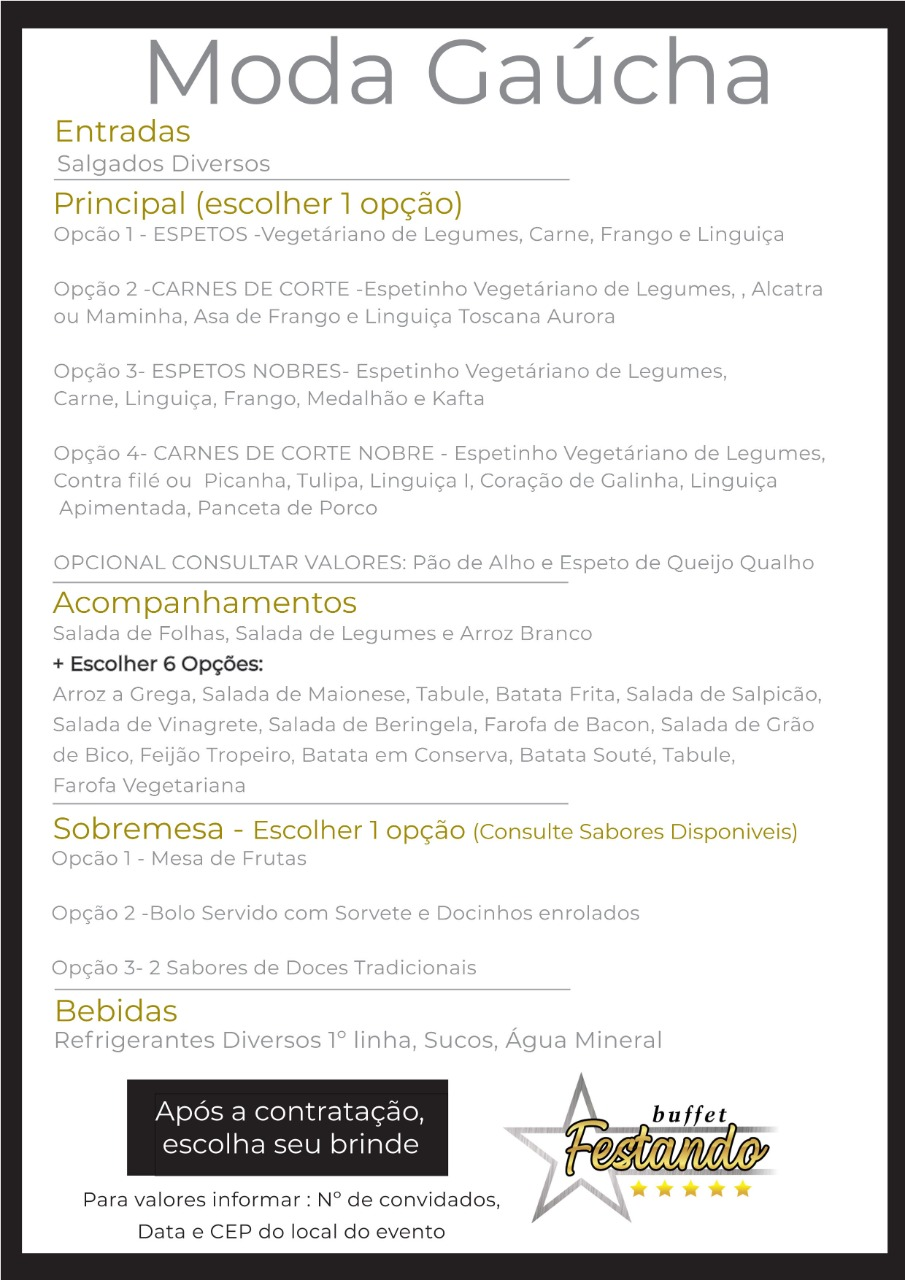
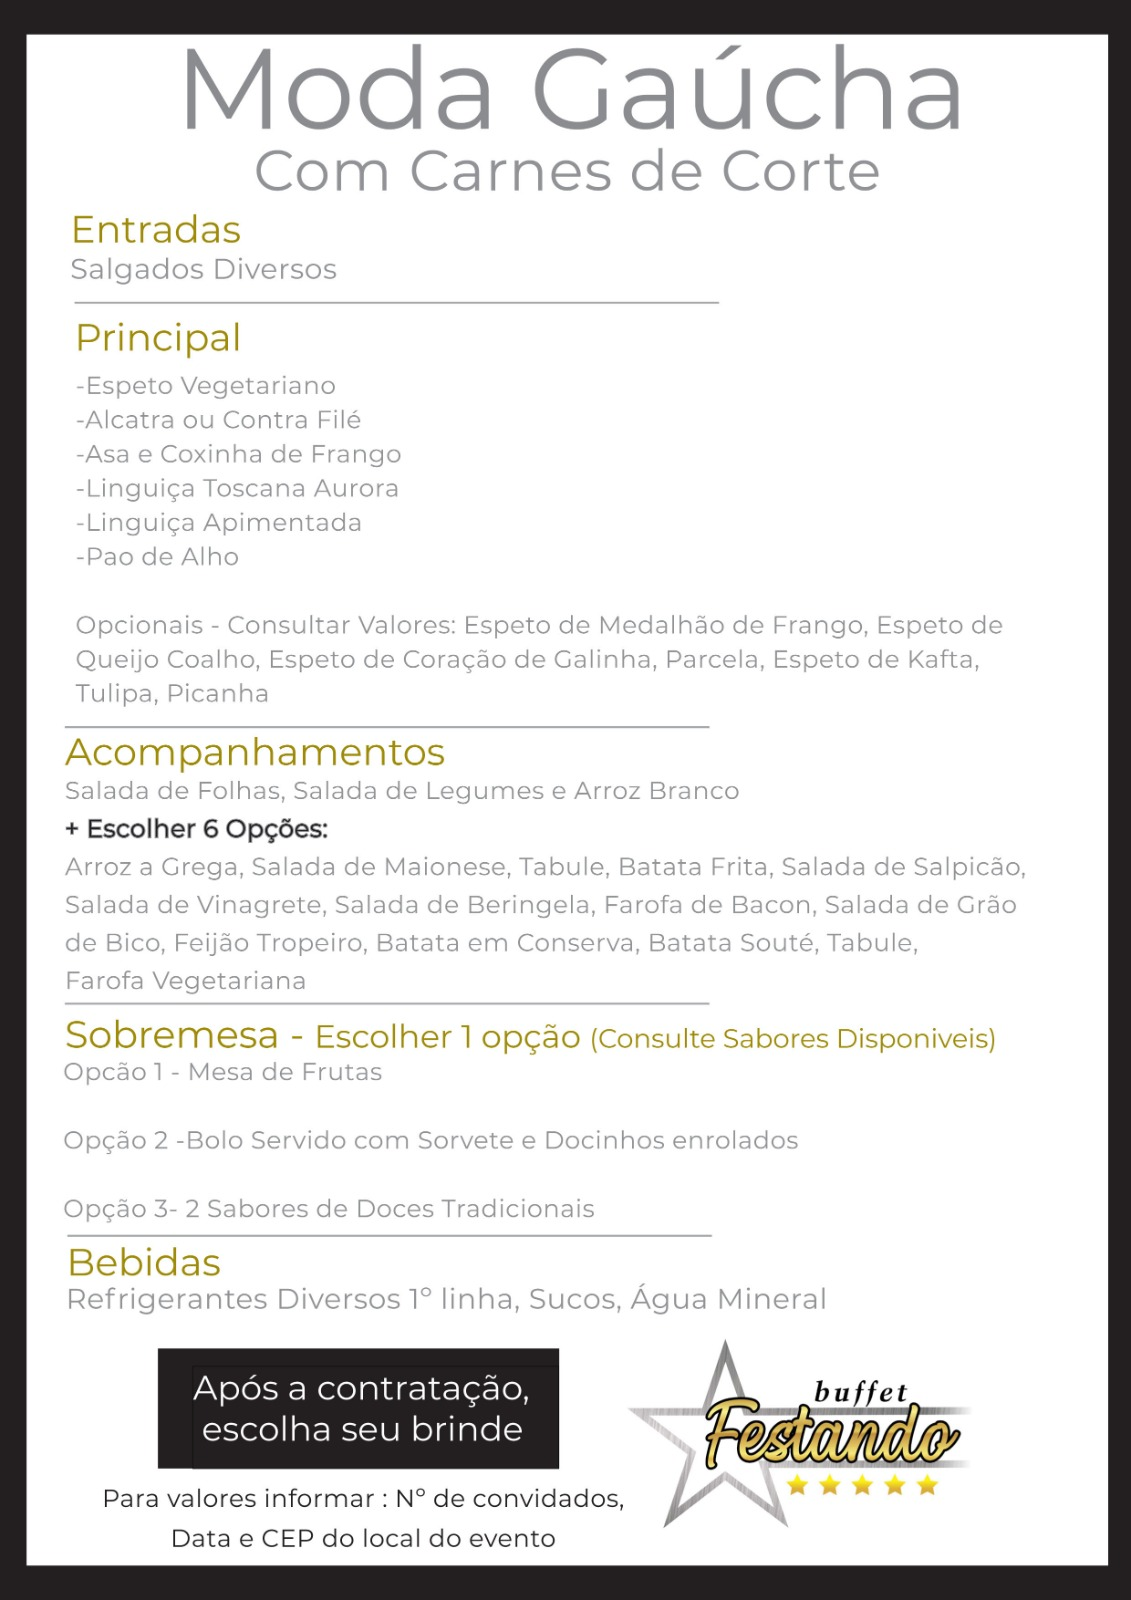
ajuste moda gaucha

diff --git a/menu.html b/menu.html
@@ -303,8 +303,13 @@
                                     </div>
                                     <div class="blog-content">
                                         <h2 class="blog-title">Moda Gaúcha</h2>
-                                        <div class="blog-text" onclick="exibirMenu('mModa-Gaucha.jpg')">
-                                            <a class="btn custom-btn">Ver Mais</a>
+                                        <div style="display: flex; justify-content: space-around;">
+                                            <div class="blog-text" onclick="exibirMenu('mModa-Gaucha.jpg')">
+                                                <a class="btn custom-btn">Cardápio 1</a>
+                                            </div>
+                                            <div class="blog-text" onclick="exibirMenu('mModa-Gaucha2.jpg')">
+                                                <a class="btn custom-btn">Cardápio 2</a>
+                                            </div>
                                         </div>
                                     </div>
                                 </div>
